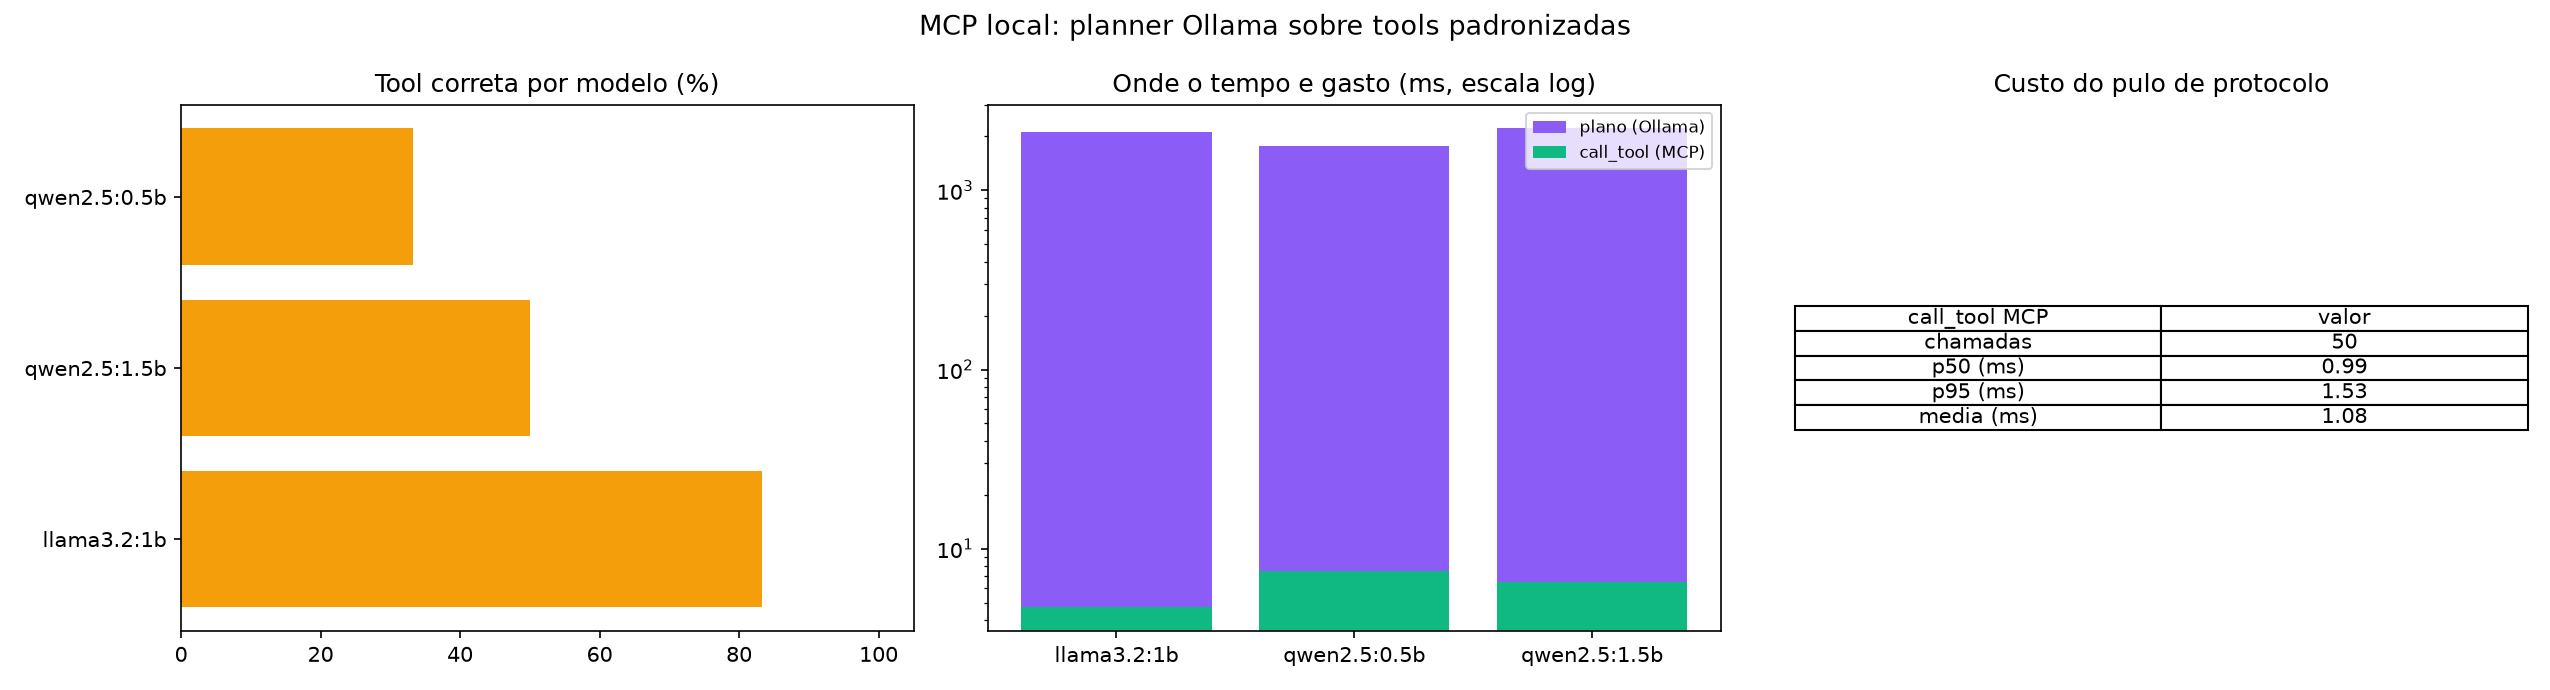
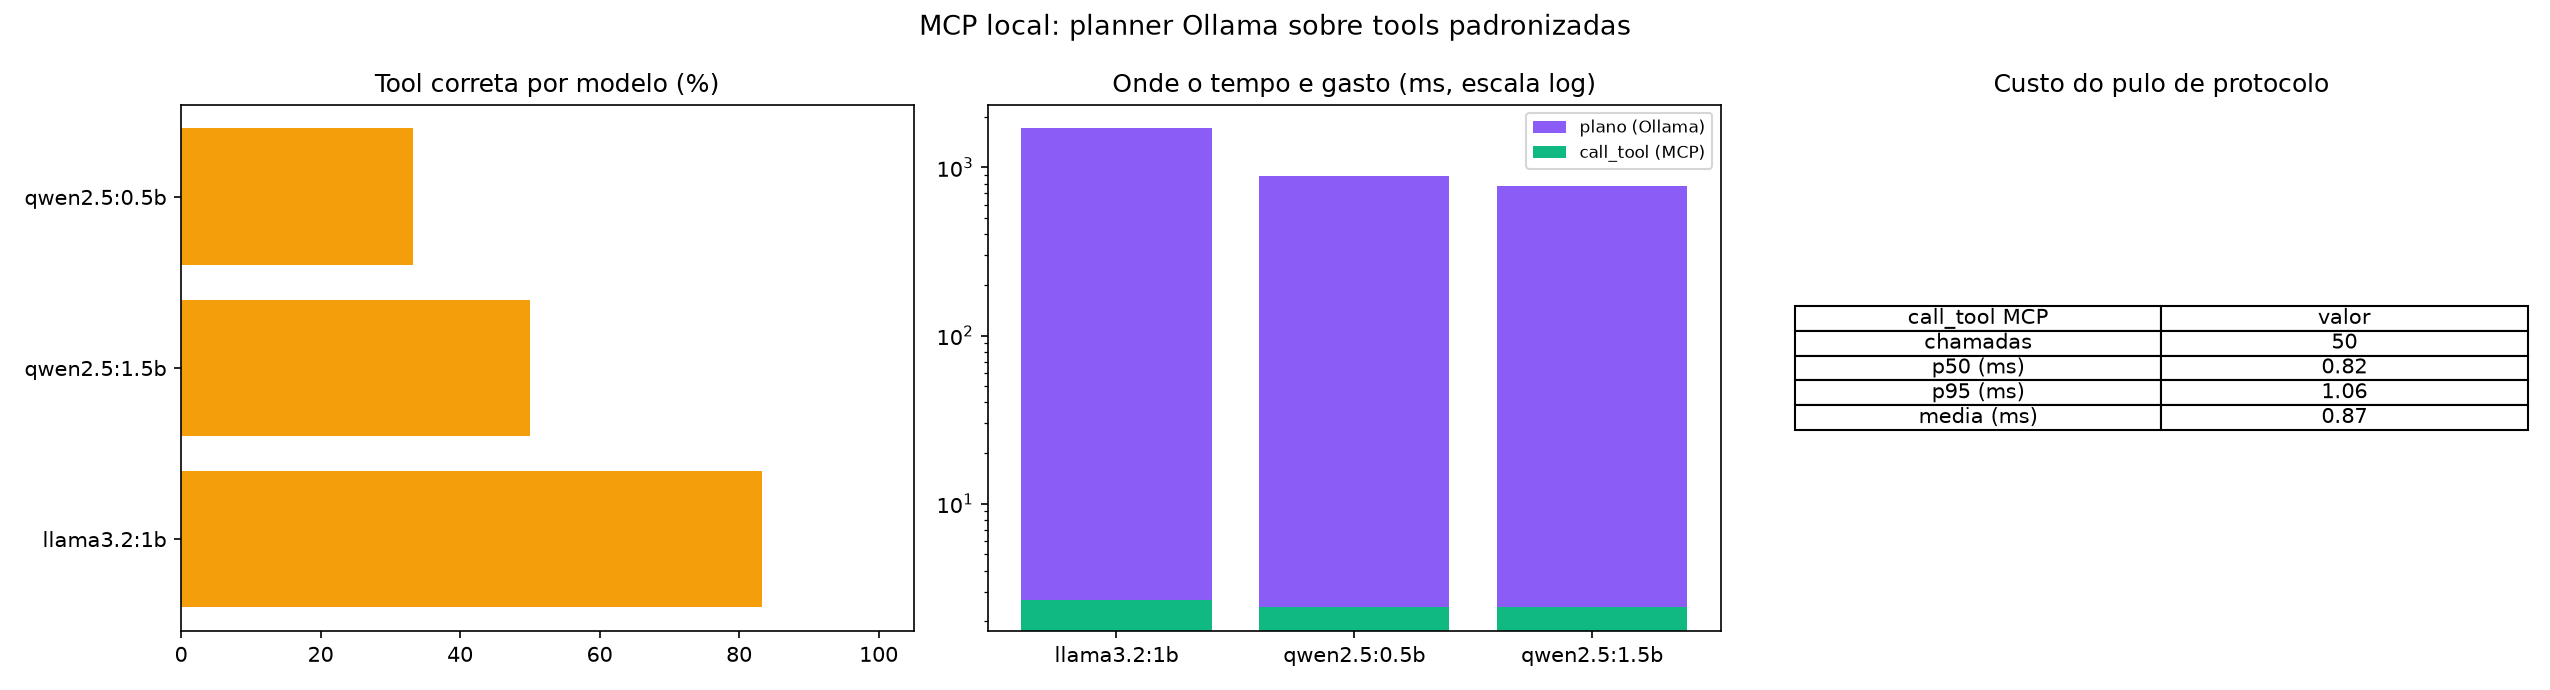
chore(benchmarks): atualizar relatorios e metricas do modulo 0010

diff --git a/0010_mcp_local/data/mcp_relatorio.md b/0010_mcp_local/data/mcp_relatorio.md
@@ -2,15 +2,15 @@
 
 - Servidor de modelos: Ollama `0.35.1` | Servidor de tools: MCP stdio `pathbit-suporte`
 - Tools descobertas: buscar_politica, criar_ticket, resumo_atendimento
-- Custo do pulo de protocolo (call_tool): p50 0.99 ms / p95 1.53 ms em 50 chamadas
+- Custo do pulo de protocolo (call_tool): p50 0.82 ms / p95 1.06 ms em 50 chamadas
 
 ## Planner por modelo
 
 | modelo       |   plano_valido_pct |   tool_certa_pct |   argumento_ok_pct |   plan_medio_ms |   mcp_medio_ms |   tokens_medios |
 |:-------------|-------------------:|-----------------:|-------------------:|----------------:|---------------:|----------------:|
-| llama3.2:1b  |                100 |             83.3 |                100 |          2117.6 |            4.7 |            51.8 |
-| qwen2.5:1.5b |                100 |             50   |                100 |          2213.3 |            6.5 |            32.5 |
-| qwen2.5:0.5b |                100 |             33.3 |                100 |          1764.4 |            7.5 |            27.7 |
+| llama3.2:1b  |                100 |             83.3 |                100 |          1703.2 |            2.7 |            51.8 |
+| qwen2.5:1.5b |                100 |             50   |                100 |           773.6 |            2.4 |            32.5 |
+| qwen2.5:0.5b |                100 |             33.3 |                100 |           887.5 |            2.4 |            31.5 |
 
 ## Leitura
 
